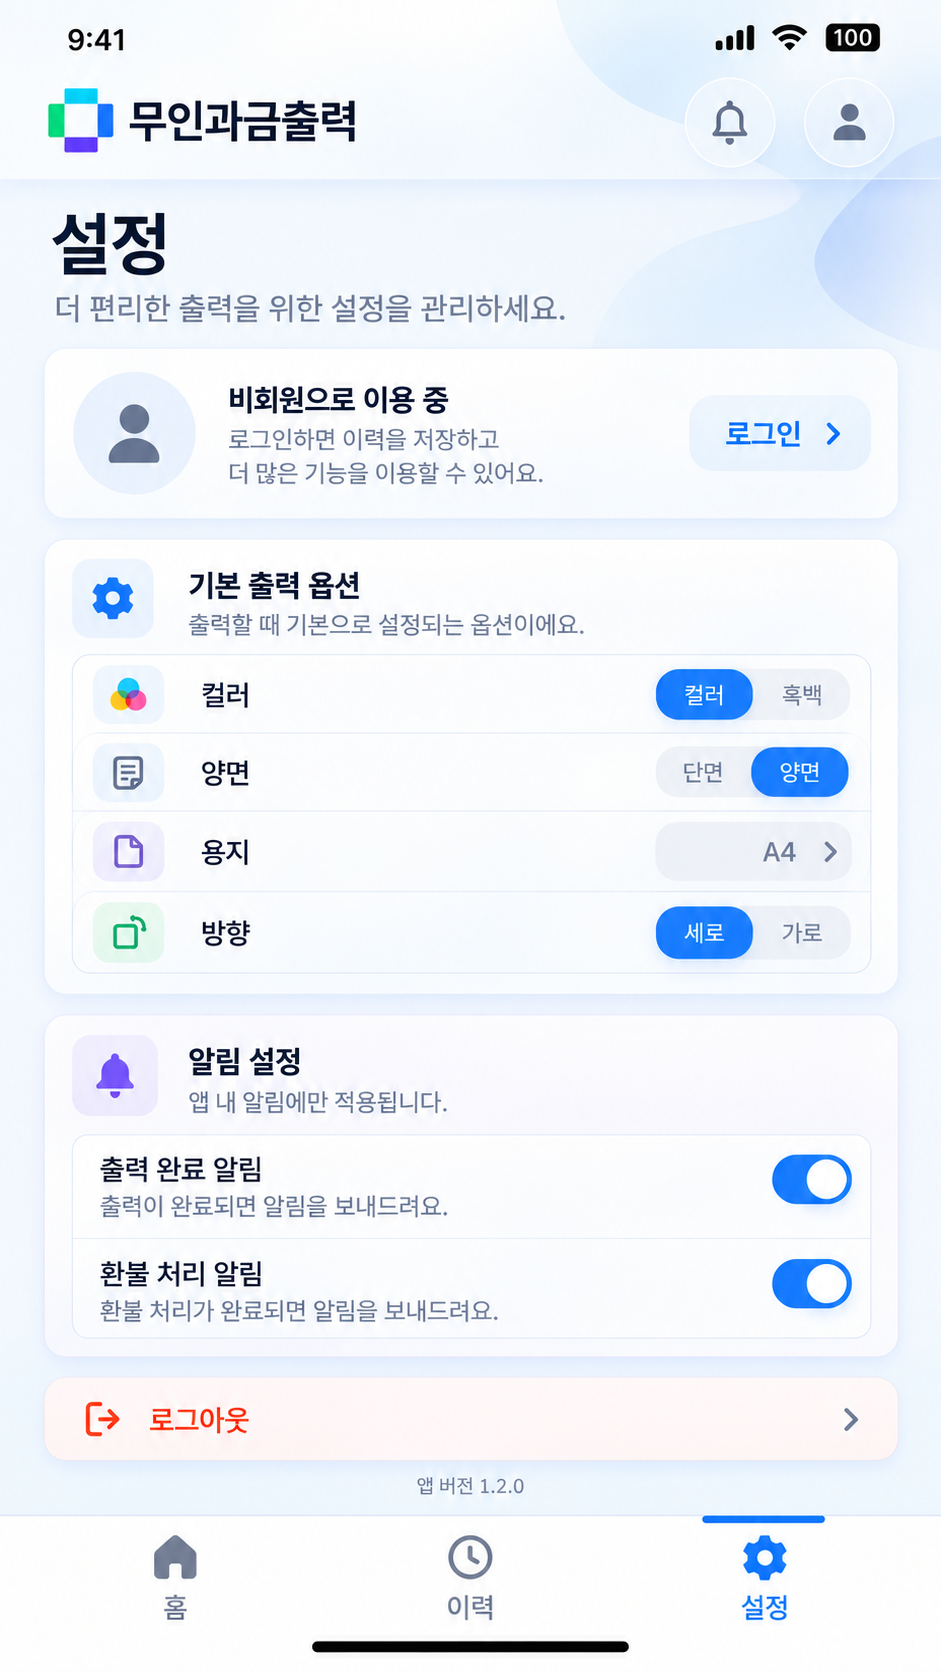
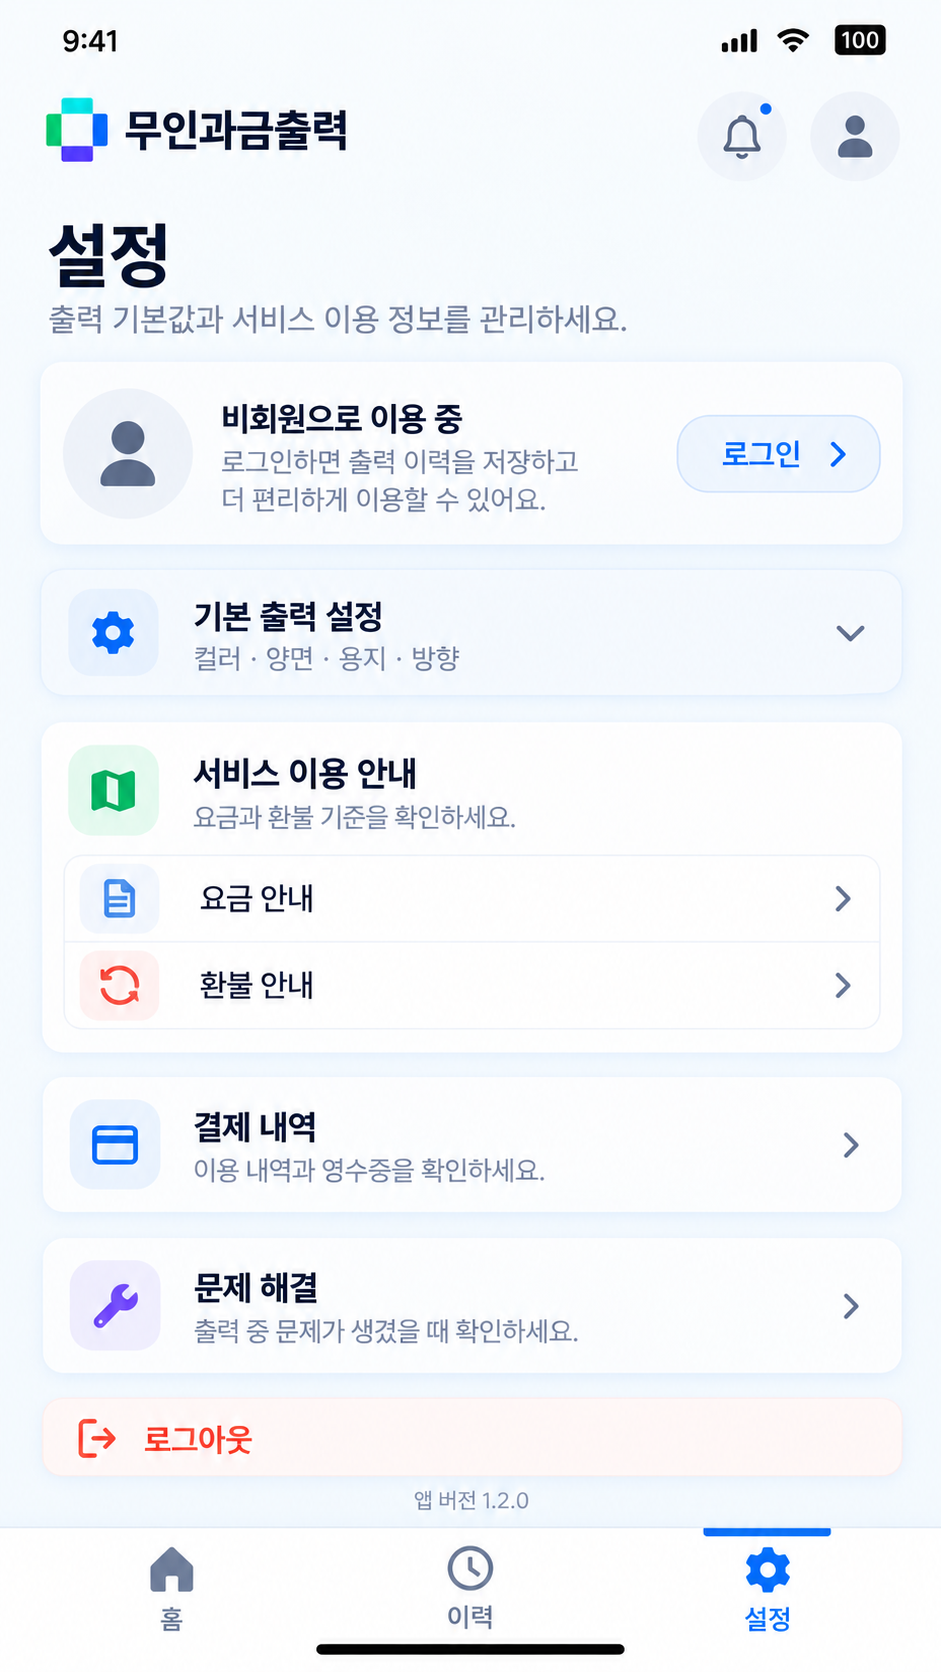
스크린샷 6장 교체, 화면 7개 추가 (총 17화면)
교체
- 작업 이력·알림: 현재·제안 모두 새 이미지로
- 설정·인쇄: 제안 이미지 갱신

추가 (인쇄 흐름)
- 파일확인·인쇄옵션·금액확인 세 AS-IS 화면을 각각 추가하고,
  TO-BE 쪽은 셋을 합친 '파일 확인 및 결제' 한 화면을 공유한다
- 변경점으로 단계 6→3 축소, 세 화면 통합(merge), 옵션 시트→본문 이동(move),
  금액 표시 추가, 결제 진입 방식 변경을 정의

추가 (제안에만 있는 화면)
- 요금 안내·결제 내역·환불 안내·문제 해결
- 한쪽에만 있는 화면을 지원하도록 비교 화면을 확장했다.
  반대편은 '현재 서비스에 없는 화면' 자리로 표시하고,
  프로토타입 페이지가 없으면 그 안내를 보여 준다

Claude-Session: https://claude.ai/code/session_01T5u2QXejYEkjRZPDhEWwp2

diff --git a/public/assets/js/screens.js b/public/assets/js/screens.js
@@ -90,6 +90,115 @@ window.REVIEW = {
       notes: []
     },
     {
+      id: 'print-confirm', label: '파일확인',
+      current:  { img: 'shots/print-confirm.png' },
+      proposal: { img: 'proposal/shots/print-checkout.png' },
+      changes: [
+        {
+          id: 'steps', type: 'restructure', shortLabel: '단계 축소',
+          title: '단계 6개에서 3개로',
+          description: '파일선택·파일확인·금액확인·결제·복합기연결·출력 여섯 단계를 모두 표시하던 것을 ' +
+            '설정·결제·출력 세 단계로 줄였습니다.',
+          targets: {
+            current:  [{ x: 0, y: 6.3, w: 100, h: 7.5 }],
+            proposal: [{ x: 16, y: 25.1, w: 68, h: 6.0 }]
+          }
+        },
+        {
+          id: 'merge', type: 'merge', shortLabel: '통합',
+          title: '세 화면을 한 화면으로',
+          description: '파일 확인, 인쇄 옵션, 금액 확인이 각각 별도 화면이었습니다. ' +
+            'TO-BE에서는 한 화면 안에서 모두 처리합니다.',
+          targets: {
+            current:  [{ x: 3.8, y: 14.5, w: 92.5, h: 20.5 }],
+            proposal: [{ x: 3.7, y: 32.6, w: 92.5, h: 56.8 }]
+          }
+        },
+        {
+          id: 'file', type: 'restructure', shortLabel: '재구성',
+          title: '파일 카드에 미리보기와 옵션 요약',
+          description: '파일명과 인쇄옵션 버튼만 있던 카드에 미리보기가 생기고, ' +
+            '선택한 옵션을 카드 안에서 바로 보여 줍니다.',
+          targets: {
+            current:  [{ x: 3.8, y: 25.1, w: 92.5, h: 9.5 }],
+            proposal: [{ x: 3.7, y: 32.6, w: 92.5, h: 14.1 }]
+          }
+        }
+      ]
+    },
+    {
+      id: 'print-options', label: '인쇄옵션',
+      current:  { img: 'shots/print-options.png' },
+      proposal: { img: 'proposal/shots/print-checkout.png' },
+      changes: [
+        {
+          id: 'sheet', type: 'move', shortLabel: '이동',
+          title: '옵션이 시트에서 본문으로',
+          description: '화면 아래에서 올라오는 시트로 열던 인쇄 옵션이, ' +
+            'TO-BE에서는 본문 안에 항상 보이는 영역이 되었습니다.',
+          targets: {
+            current:  [{ x: 0, y: 46.9, w: 100, h: 53.1 }],
+            proposal: [{ x: 3.7, y: 47.8, w: 92.5, h: 28.4 }]
+          }
+        },
+        {
+          id: 'amount', type: 'add', shortLabel: '추가',
+          title: '옵션 아래 예상 금액 표시',
+          description: 'AS-IS 시트에는 금액이 없었습니다. TO-BE는 옵션 바로 아래에 ' +
+            '예상 결제 금액과 결제 버튼이 함께 있습니다.',
+          targets: {
+            proposal: [{ x: 6.9, y: 77.2, w: 86.0, h: 6.6 }]
+          }
+        },
+        {
+          id: 'steps', type: 'restructure', shortLabel: '단계 축소',
+          title: '단계 6개에서 3개로',
+          description: '여섯 단계를 모두 표시하던 것을 설정·결제·출력 세 단계로 줄였습니다.',
+          targets: {
+            current:  [{ x: 0, y: 6.3, w: 100, h: 7.5 }],
+            proposal: [{ x: 16, y: 25.1, w: 68, h: 6.0 }]
+          }
+        }
+      ]
+    },
+    {
+      id: 'print-amount', label: '금액확인',
+      current:  { img: 'shots/print-amount.png' },
+      proposal: { img: 'proposal/shots/print-checkout.png' },
+      changes: [
+        {
+          id: 'merge', type: 'merge', shortLabel: '통합',
+          title: '금액 확인 화면 통합',
+          description: '합계와 파일별 상세를 따로 보여 주던 화면이, ' +
+            '옵션 화면 안의 예상 결제 금액 한 곳으로 합쳐졌습니다.',
+          targets: {
+            current:  [{ x: 3.8, y: 15.6, w: 92.5, h: 8.0 },
+                       { x: 3.8, y: 27.7, w: 92.5, h: 8.2 }],
+            proposal: [{ x: 6.9, y: 77.2, w: 86.0, h: 6.6 }]
+          }
+        },
+        {
+          id: 'cta', type: 'restructure', shortLabel: '재구성',
+          title: '결제 진입 방식 변경',
+          description: '모바일로 결제 안내와 작업 취소가 하단에 나뉘어 있던 것을, ' +
+            '금액이 적힌 결제 버튼 하나로 정리했습니다.',
+          targets: {
+            current:  [{ x: 3.8, y: 84.5, w: 92.5, h: 14.6 }],
+            proposal: [{ x: 6.9, y: 84.9, w: 86.0, h: 4.5 }]
+          }
+        },
+        {
+          id: 'steps', type: 'restructure', shortLabel: '단계 축소',
+          title: '단계 6개에서 3개로',
+          description: '여섯 단계를 모두 표시하던 것을 설정·결제·출력 세 단계로 줄였습니다.',
+          targets: {
+            current:  [{ x: 0, y: 6.4, w: 100, h: 7.4 }],
+            proposal: [{ x: 16, y: 25.1, w: 68, h: 6.0 }]
+          }
+        }
+      ]
+    },
+    {
       id: 'copy', label: '복사',
       current:  { img: 'shots/copy.png',          page: 'copy.html' },
       proposal: { img: 'proposal/shots/copy.png', page: 'proposal/copy.html' },
@@ -136,6 +245,54 @@ window.REVIEW = {
       current:  { img: 'shots/notifications.png',          page: 'notifications.html' },
       proposal: { img: 'proposal/shots/notifications.png', page: 'proposal/notifications.html' },
       notes: []
+    },
+    {
+      id: 'cost', label: '요금 안내',
+      proposal: { img: 'proposal/shots/cost.png' },
+      changes: [
+        {
+          id: 'new', type: 'add', shortLabel: '신규',
+          title: '새로 추가된 화면',
+          description: '현재 서비스에는 없는 화면입니다. 흑백 50원, 컬러 250원 같은 장당 요금과 ' +
+            '지원 용지, 선택할 수 있는 인쇄 옵션을 한 화면에 정리했습니다.'
+        }
+      ]
+    },
+    {
+      id: 'payments', label: '결제 내역',
+      proposal: { img: 'proposal/shots/payments.png' },
+      changes: [
+        {
+          id: 'new', type: 'add', shortLabel: '신규',
+          title: '새로 추가된 화면',
+          description: '현재 서비스에는 없는 화면입니다. 최근 결제 내역을 서비스 종류로 걸러 보고, ' +
+            '각 내역에서 영수증을 확인할 수 있습니다.'
+        }
+      ]
+    },
+    {
+      id: 'refund', label: '환불 안내',
+      proposal: { img: 'proposal/shots/refund.png' },
+      changes: [
+        {
+          id: 'new', type: 'add', shortLabel: '신규',
+          title: '새로 추가된 화면',
+          description: '현재 서비스에는 없는 화면입니다. 출력이 진행되지 않은 경우, 오류로 출력되지 않은 경우, ' +
+            '부분 출력된 경우로 나눠 환불 기준을 안내합니다.'
+        }
+      ]
+    },
+    {
+      id: 'troubleshoot', label: '문제 해결',
+      proposal: { img: 'proposal/shots/troubleshoot.png' },
+      changes: [
+        {
+          id: 'new', type: 'add', shortLabel: '신규',
+          title: '새로 추가된 화면',
+          description: '현재 서비스에는 없는 화면입니다. 결제 후 미출력, 용지 걸림, 파일 열림 오류, ' +
+            '기기 연결 문제를 항목별로 안내하고 문의하기로 이어집니다.'
+        }
+      ]
     }
   ]
 };

diff --git a/public/assets/js/board.js b/public/assets/js/board.js
@@ -128,18 +128,27 @@
   function paneHtml(s, side) {
     var isCur = side === 'current';
     var d = s[isCur ? 'current' : 'proposal'];
-    return '<div class="pane pane--' + side + '">' +
-      '<div class="pane__head"><span class="pane__mark"></span>' +
+
+    var head = '<div class="pane__head"><span class="pane__mark"></span>' +
       '<span class="tag tag--' + (isCur ? 'as">AS-IS' : 'to">TO-BE') + '</span>' +
-      '<span class="pane__name">' + (isCur ? '현재' : '제안') + '</span></div>' +
-      '<div class="pane__body">' +
-        '<div class="device"><div class="shotbox">' +
-          '<img class="shotimg" src="' + d.img + '" alt="' + s.label + ' ' +
-          (isCur ? 'AS-IS' : 'TO-BE') + '" data-zoom="' + d.img + '">' +
-          '<div class="anno" data-side="' + side + '">' + SPAnno.overlayHtml(s, side, s.id) + '</div>' +
-        '</div></div>' +
-        '<span class="caption">' + (isCur ? '현재 서비스 화면 (AS-IS)' : '개선 제안 화면 (TO-BE)') + '</span>' +
-      '</div></div>';
+      '<span class="pane__name">' + (isCur ? '현재' : '제안') + '</span></div>';
+
+    /* 한쪽에만 있는 화면이면 빈 자리를 그대로 보여 준다 */
+    var body = d
+      ? '<div class="pane__body">' +
+          '<div class="device"><div class="shotbox">' +
+            '<img class="shotimg" src="' + d.img + '" alt="' + s.label + ' ' +
+            (isCur ? 'AS-IS' : 'TO-BE') + '" data-zoom="' + d.img + '">' +
+            '<div class="anno" data-side="' + side + '">' + SPAnno.overlayHtml(s, side, s.id) + '</div>' +
+          '</div></div>' +
+          '<span class="caption">' + (isCur ? '현재 서비스 화면 (AS-IS)' : '개선 제안 화면 (TO-BE)') + '</span>' +
+        '</div>'
+      : '<div class="pane__body"><div class="pane__none">' +
+          '<b>' + (isCur ? '현재 서비스에 없는 화면' : '제안 화면 준비 전') + '</b>' +
+          '<span>' + (isCur ? 'TO-BE에서 새로 제안된 화면입니다.' : '아직 시안이 없습니다.') + '</span>' +
+        '</div></div>';
+
+    return '<div class="pane pane--' + side + '">' + head + body + '</div>';
   }
 
   function drawCompare() {
@@ -244,13 +253,27 @@
   }
 
   /* ── 프로토타입 보기 ───────────────────────── */
+  function protoPage(s) {
+    var want = state.protoSide === 'current' ? 'current' : 'proposal';
+    var other = want === 'current' ? 'proposal' : 'current';
+    var d = s[want] && s[want].page ? s[want] : (s[other] && s[other].page ? s[other] : null);
+    return d ? d.page : null;
+  }
+
   function protoUrl(s) {
-    var d = s[state.protoSide === 'current' ? 'current' : 'proposal'];
-    return d.page + '?embed=1' + (DEBUG ? '&debug=hits' : '');
+    var page = protoPage(s);
+    return page ? page + '?embed=1' + (DEBUG ? '&debug=hits' : '') : null;
   }
 
   function drawProto() {
     var s = screen();
+    var url = protoUrl(s);
+    if (!url) {
+      el.stage.innerHTML = '<div class="proto"><div class="proto__stage">' +
+        '<div class="pane__none"><b>프로토타입 화면 없음</b>' +
+        '<span>이 화면은 아직 눌러 볼 수 있는 페이지가 없습니다.</span></div></div></div>';
+      return;
+    }
     el.stage.innerHTML =
       '<div class="proto">' +
         '<div class="proto__stage" id="protoStage">' +
@@ -267,7 +290,8 @@
       var path;
       try { path = frame.contentWindow.location.pathname; } catch (e) { return; }
       var i = SCREENS.findIndex(function (x) {
-        return path.endsWith('/' + x.current.page) || path.endsWith('/' + x.proposal.page);
+        return (x.current && x.current.page && path.endsWith('/' + x.current.page)) ||
+               (x.proposal && x.proposal.page && path.endsWith('/' + x.proposal.page));
       });
       if (i >= 0 && i !== state.index) { state.index = i; drawChips(); }
       sizeFrame();
@@ -279,7 +303,9 @@
     var frame = document.getElementById('protoFrame');
     if (!stage || !frame) return;
     var s = screen();
-    var src = s[state.protoSide === 'current' ? 'current' : 'proposal'].img;
+    var want = state.protoSide === 'current' ? 'current' : 'proposal';
+    var side = s[want] && s[want].img ? s[want] : (s.proposal || s.current);
+    var src = side.img;
     ratio(src, function (r) {
       var box = stage.getBoundingClientRect();
       var pad = 18;

diff --git a/public/assets/css/board.css b/public/assets/css/board.css
@@ -134,6 +134,12 @@ a{color:inherit;text-decoration:none}
   background:var(--soft);border-radius:999px;padding:6px 14px;
 }
 .pane__miss{font-size:13px;color:var(--muted-2);text-align:center;line-height:1.6}
+.pane__none{
+  display:grid;place-content:center;justify-items:center;gap:7px;text-align:center;
+  width:100%;height:100%;border:1px dashed var(--line);border-radius:14px;background:#fbfcfe;
+}
+.pane__none b{font-size:14.5px;font-weight:800;color:var(--muted)}
+.pane__none span{font-size:12.5px;color:var(--muted-2)}
 
 /* ── 개선 노트 ─────────────────────────────────── */
 .notes{

diff --git a/README.md b/README.md
@@ -104,6 +104,8 @@ public/
   proposal/…                                                       제안 화면 (같은 구성)
   shots/                 현재 화면 스크린샷
   proposal/shots/        제안 화면 스크린샷
+                         (한쪽에만 있는 화면은 그 면만 두면 된다. 비교 화면에서
+                          반대편은 '현재 서비스에 없는 화면' 으로 표시된다)
   map.html, proposal/map.html   화면 맵 (보드 상단 '화면 맵')
   assets/js/screens.js   AS-IS / TO-BE 짝, 변경점 데이터, 기대 효과
   assets/js/annotate.js  변경점 레이어 렌더러 (유형별 표시·연결선)
@@ -143,6 +145,6 @@ python3 -m http.server 8000 --directory public
 
 ## 아직 없는 것
 
-- 홈을 제외한 아홉 화면의 변경점 데이터
+- 변경점 데이터가 아직 없는 화면: 인쇄, 복사, 스캔, 팩스, 작업 이력, 설정, 로그인, 비회원, 알림
 - 스크린샷이 없는 화면: 회원가입, 비밀번호 찾기, 수정 / 제안 쪽은 도움말, 고객센터, 용지 선택 추가
 - 입력·결제·복합기 통신 등 실제 동작. 화면은 이미지입니다.
